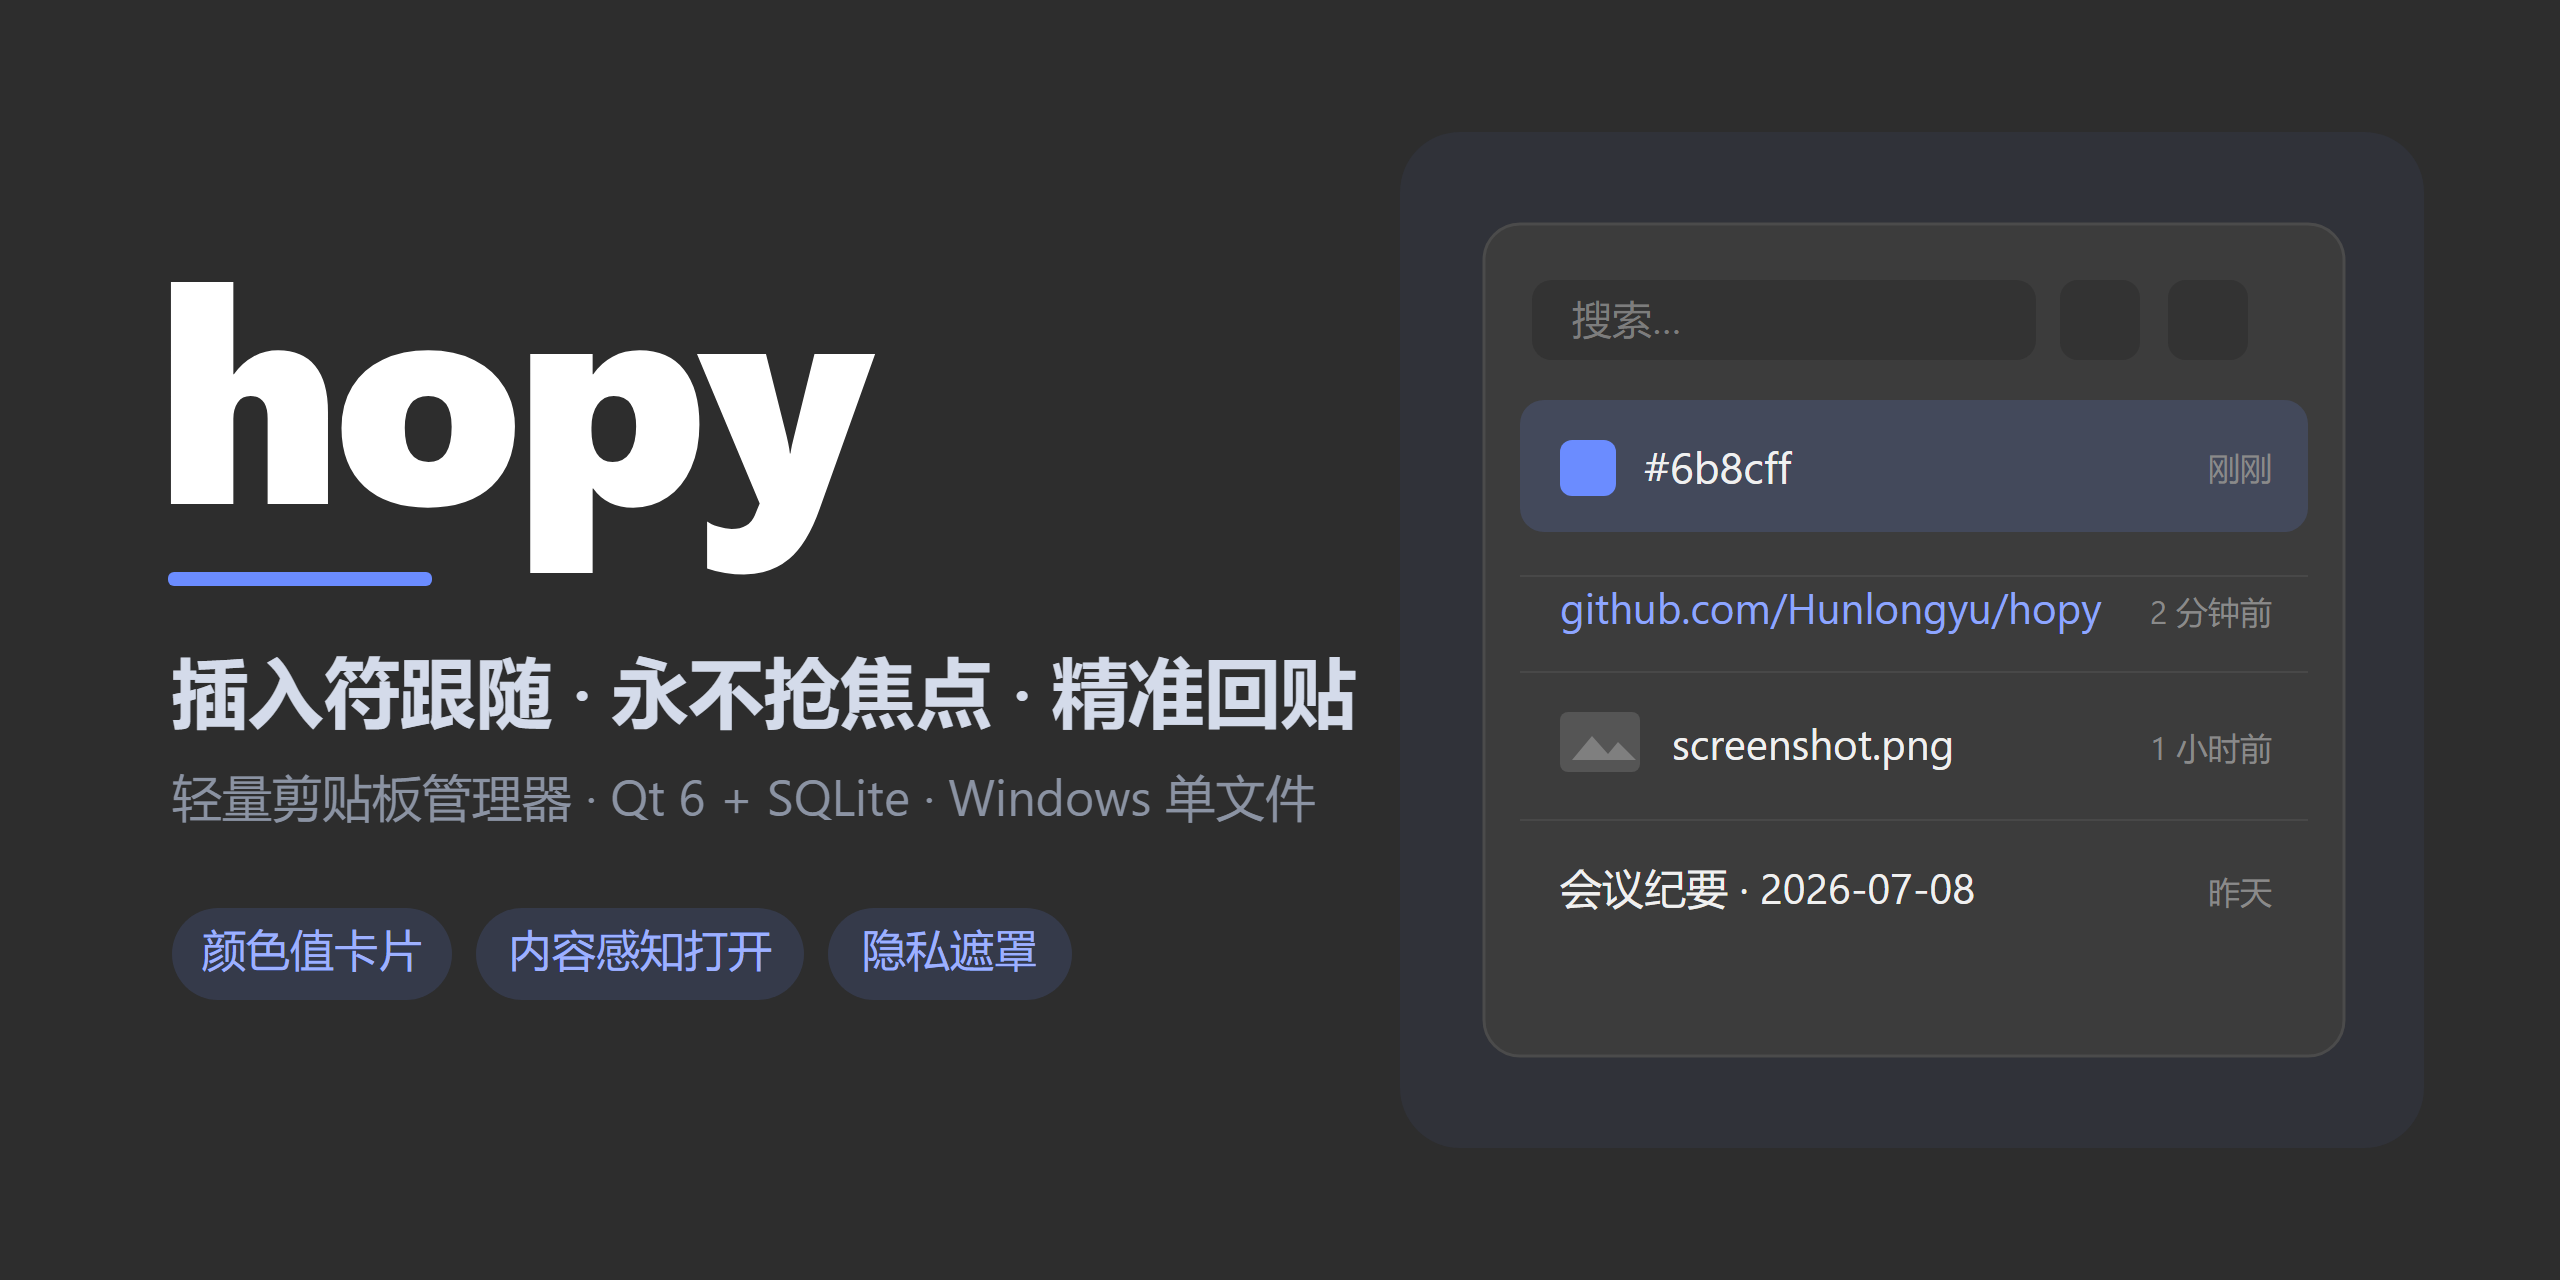
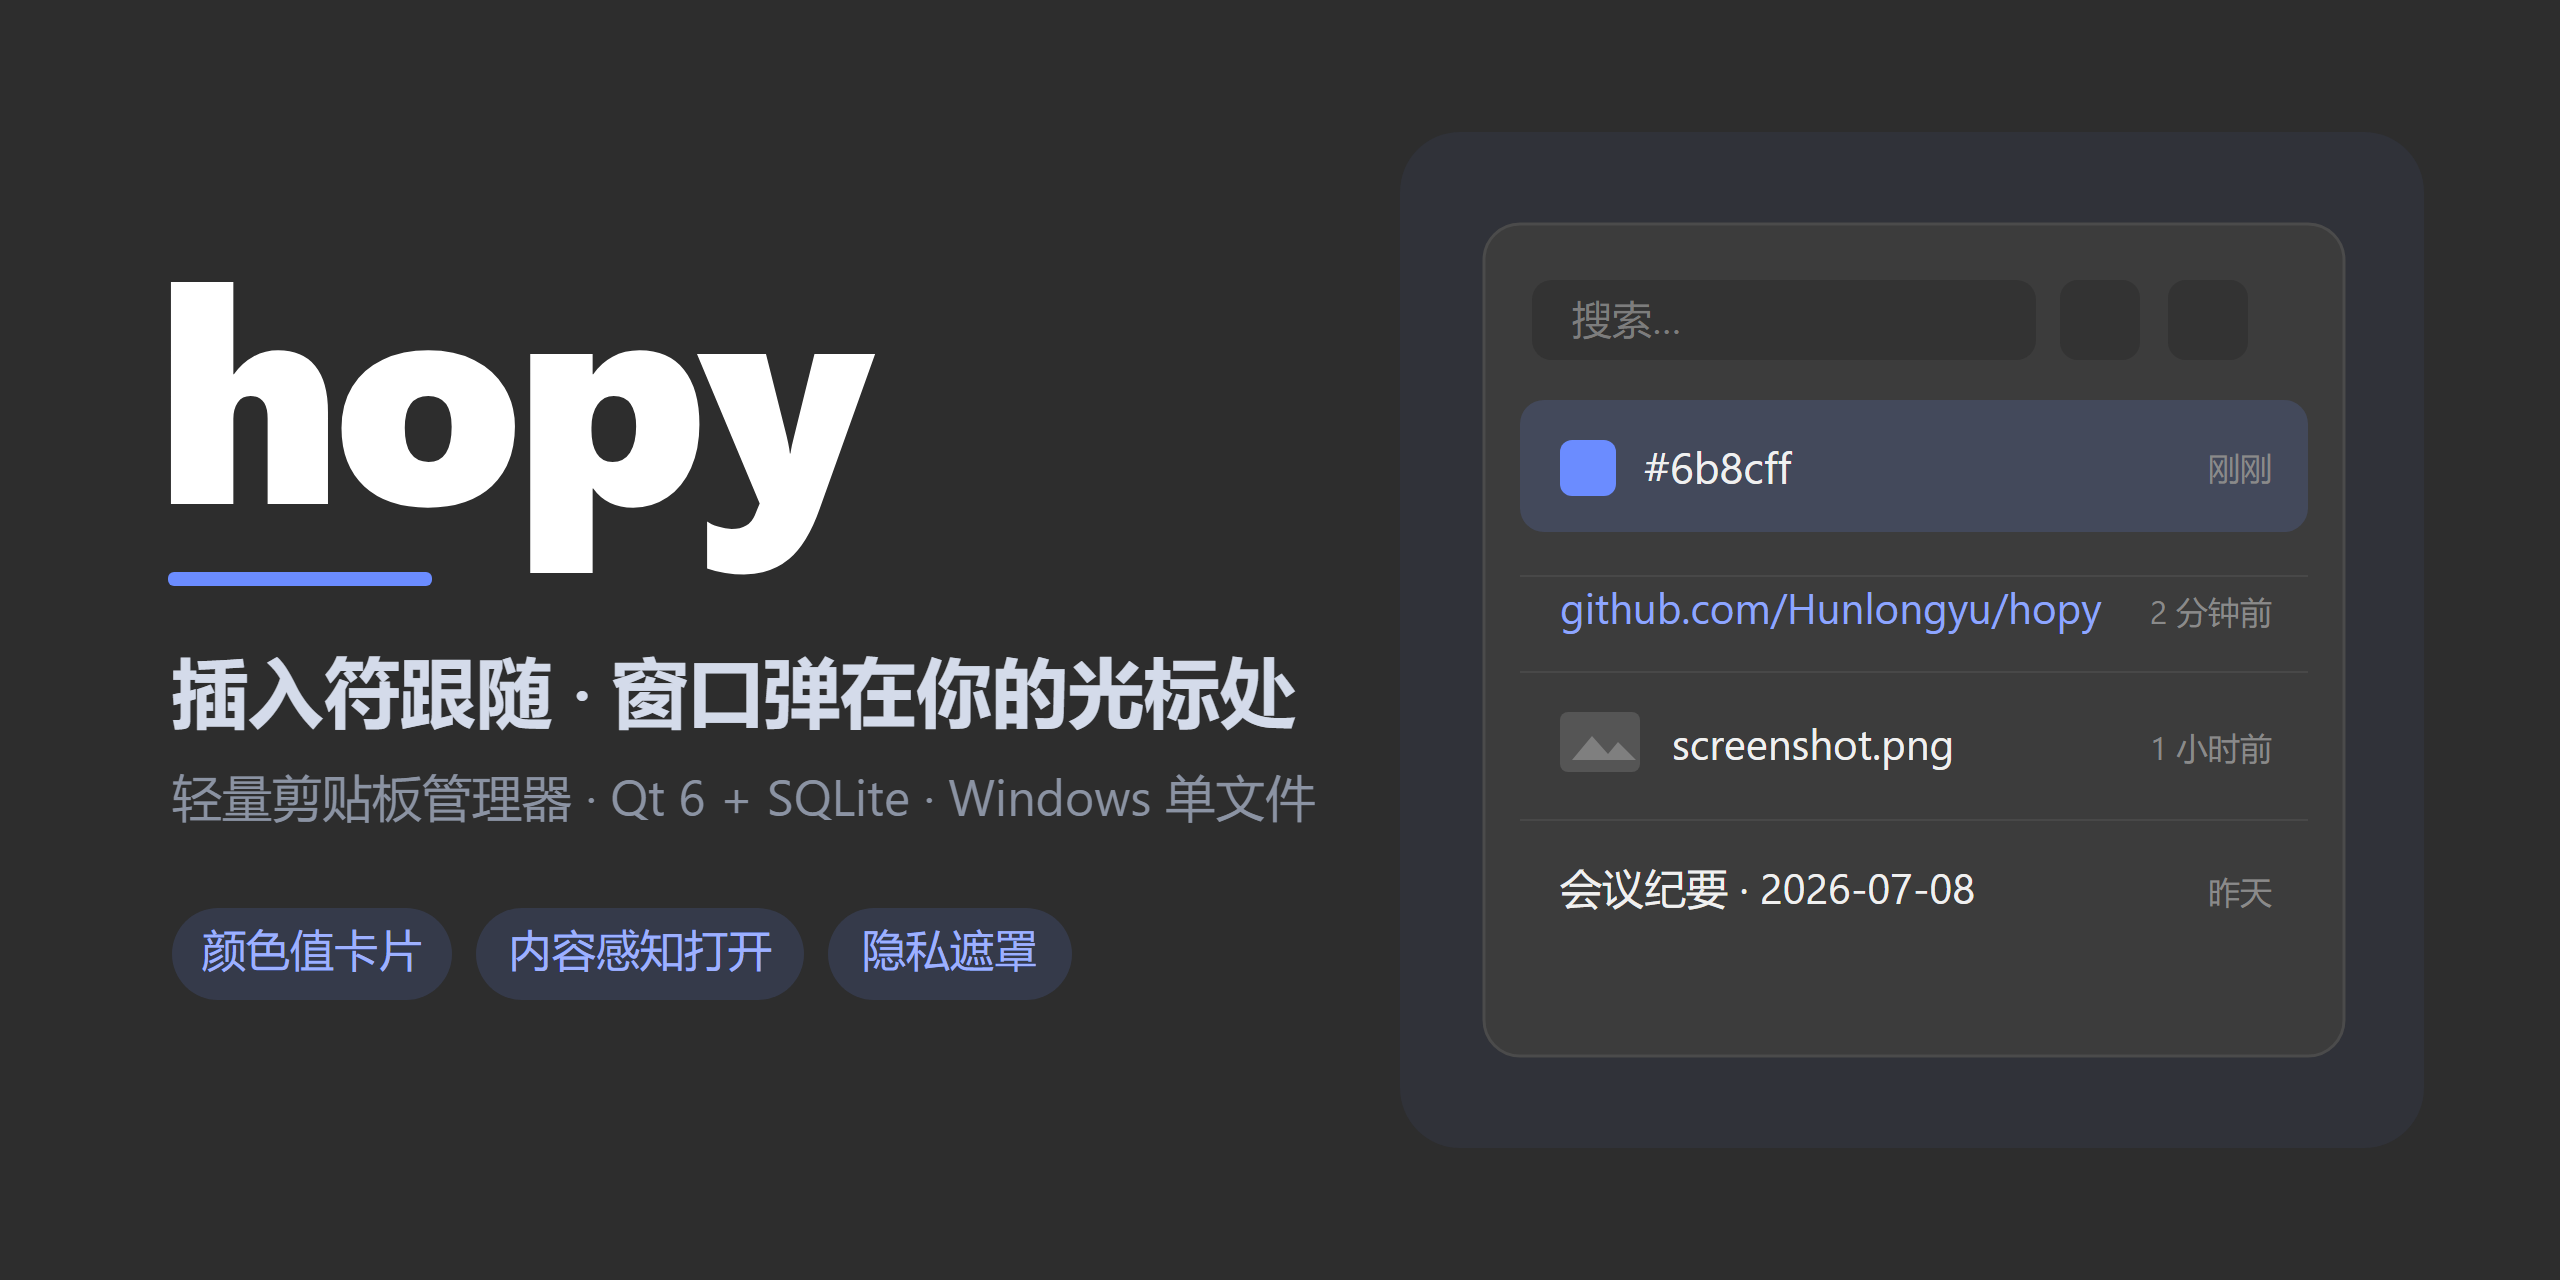
docs: lead with caret-following as the key differentiator
Not stealing focus is table-stakes for a clipboard manager, so drop it as a
selling point and center the messaging on the real differentiator — the window
pops up right at the text caret. Updates both READMEs and the social preview.

Changed region(s): [[0.2188, 0.5, 0.5312, 0.5938]]

diff --git a/README-en.md b/README-en.md
@@ -2,7 +2,7 @@
 
 # hopy
 
-**Lightweight · Windows clipboard manager** — the window pops up right at your text caret, never steals focus, and pastes back exactly where you were.
+**Lightweight · Windows clipboard manager** — the window pops up right at the text caret where you're typing, so your history is where your eyes already are and paste lands precisely in place.
 
 [简体中文](README.md) · **English**
 
@@ -19,7 +19,7 @@
 
 ## ✨ Highlights
 
-- **🎯 Caret-following · never steals focus** — The window opens right at the **text caret** in your editor and never grabs focus, so the original caret stays alive and paste-back lands exactly where you left off.
+- **🎯 Caret-following** — The window opens right at the **text caret** where you're typing (not at the mouse or a screen corner), so your history is exactly where your eyes already are and paste lands precisely on the original caret.
 - **🌈 Color-value cards** — Detects `#hex` (3/4/6/8-digit), `rgb()` / `rgba()`, and bare hex, and draws the swatch inline at the start of the row.
 - **🔗 Content-aware open** — For URLs / emails / file paths, one key or click opens them in the browser / mail client / file manager.
 - **🔒 Sensitive masking** — Content the OS flags as sensitive (e.g. copied from a password manager) is masked in both the list and the preview.

diff --git a/README.md b/README.md
@@ -2,7 +2,7 @@
 
 # hopy
 
-**轻量 · Windows 剪贴板管理器** — 窗口在文本光标处弹出，永不抢焦点，回贴精准落回原位。
+**轻量 · Windows 剪贴板管理器** — 窗口就在你正在输入的文字光标处弹出，历史记录出现在眼前，选中即精准回贴。
 
 **简体中文** · [English](README-en.md)
 
@@ -19,7 +19,7 @@
 
 ## ✨ 亮点
 
-- **🎯 插入符跟随 · 永不抢焦点** —— 窗口就在编辑器的**文本光标处**弹出，全程不夺取焦点，原窗口的插入符始终存活，回贴精准落回原光标位置。
+- **🎯 插入符跟随** —— 窗口就在你正在输入的**文本光标处**弹出（而不是鼠标位置或屏幕角落），历史记录出现在你眼睛正看着的地方，选中即精准回贴到原光标。
 - **🌈 颜色值卡片** —— 自动识别 `#hex`（3/4/6/8 位）、`rgb()` / `rgba()`、裸 hex，在行首直接画出对应色块。
 - **🔗 内容感知打开** —— 对 URL / 邮箱 / 文件路径，按一个键或点一下即可用浏览器 / 默认邮箱 / 资源管理器打开。
 - **🔒 隐私遮罩** —— 自动遮蔽被系统标记为敏感的内容（如从密码管理器复制的条目），列表与预览里都不泄露。